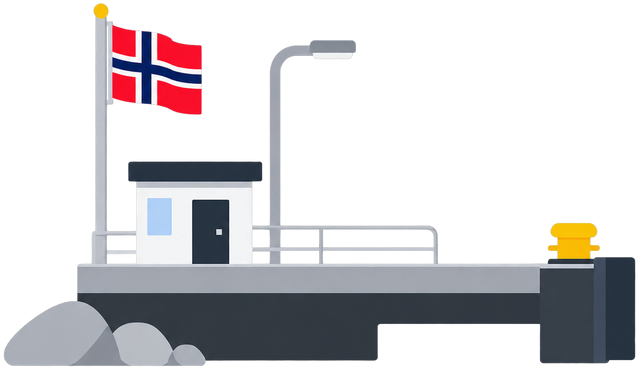
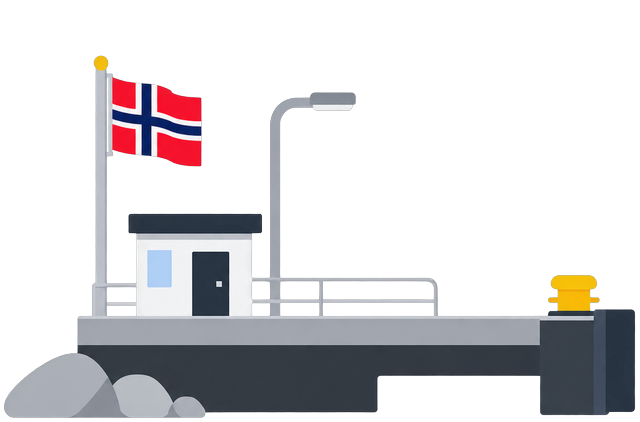
Align the two quay pictures on a shared baseline.
Same crop height so the decks sit level when each side is 10% wide.

diff --git a/index.html b/index.html
@@ -124,7 +124,7 @@
     <p class="lede" id="lede-status" hidden></p>
     <div class="fjord-track" id="fjord-track" role="img">
       <div class="fjord-kai is-left" aria-hidden="true">
-        <img src="assets/kai-venstre.png" alt="" width="640" height="370">
+        <img src="assets/kai-venstre.png" alt="" width="640" height="422">
       </div>
       <div class="fjord-sea" aria-hidden="true">
         <img class="fjord-ferry" id="fjord-ferry" src="assets/ferje.png" alt="" width="900" height="350">
